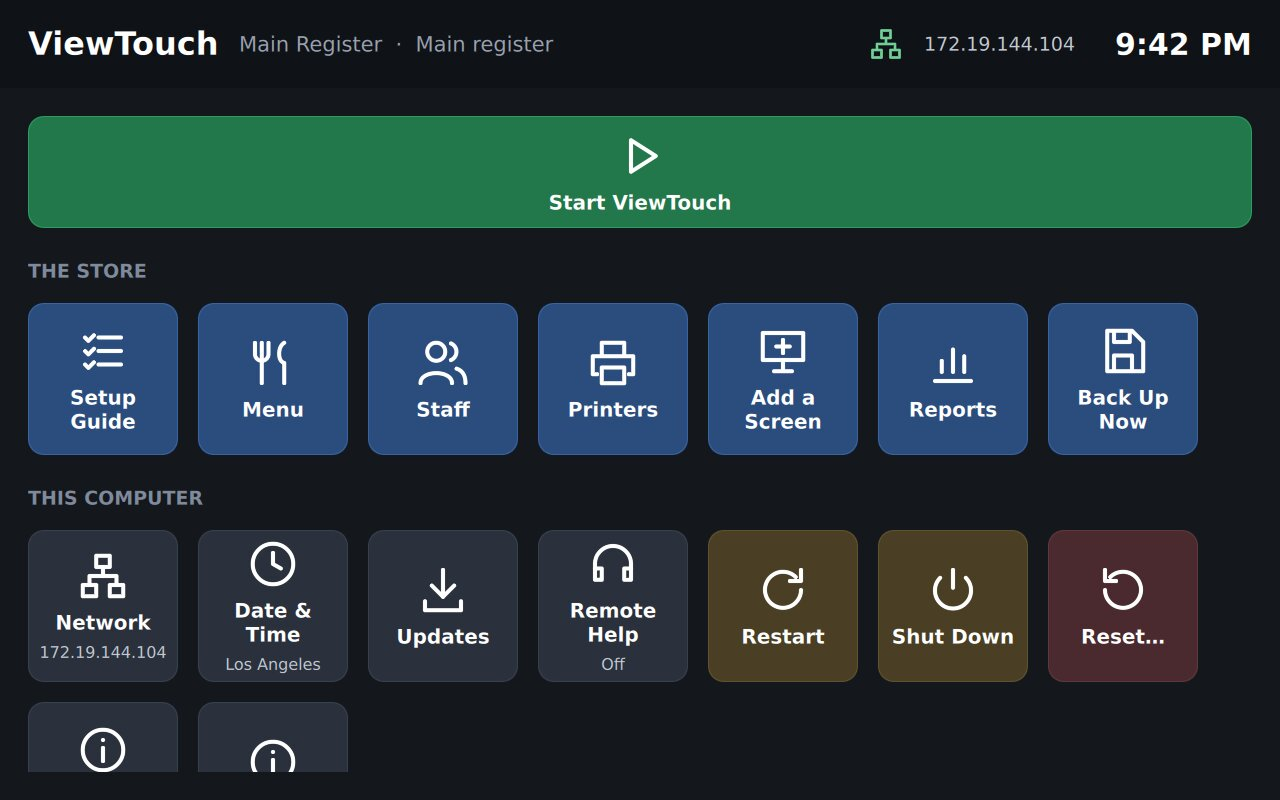
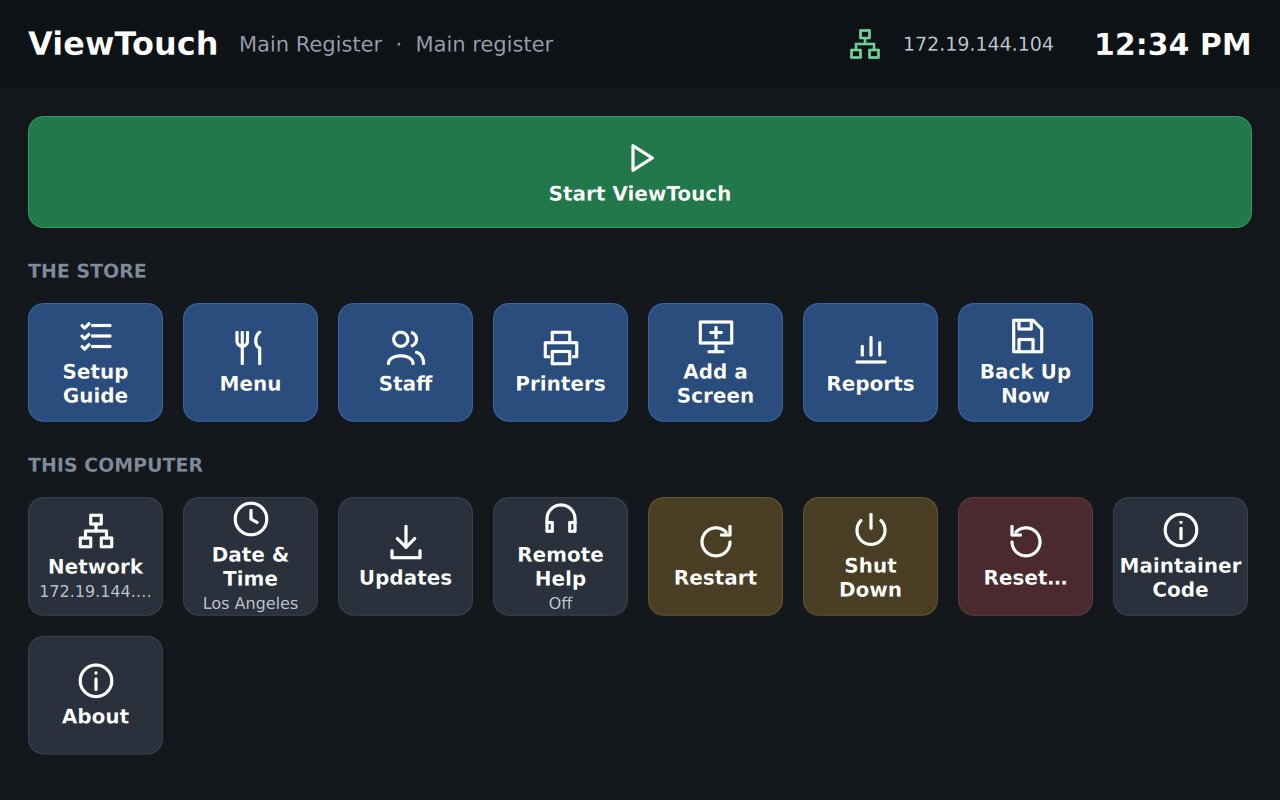
Manual: What's new since 0.11
Past tax that stays right, price tags, Order up to, the item list's
Stock column and Low Stock, stock and SKU from a spreadsheet, Undo for
stock settings, smoother busy nights and the home screen. Pictures of
the Stock column and Price Tags… (and the home screen and the Track
stock card again).

Claude-Session: https://claude.ai/code/session_015JJaarV4sfTKegR57HYFZ8

Changed region(s): [[0.0, 0.375, 1.0, 0.9688], [0.4062, 0.1562, 0.5938, 0.2812], [0.6562, 0.0312, 0.9375, 0.0938]]

diff --git a/modern/docs/manual/manual.html b/modern/docs/manual/manual.html
@@ -74,6 +74,14 @@
 </ul>
 
 <!-- ======================================================================= -->
+<h1>What's new since 0.11</h1>
+<ul>
+<li><b>Past tax stays right:</b> each check keeps the tax rates it closed with, so reports over past weeks and months, the dashboard and refunds show the tax that was charged even after the rates change (chapter 12).</li>
+<li><b>Retail:</b> <b>Price Tags…</b> with barcodes; Track stock has <b>Order up to</b> (on the Stock report's order list); the item list's <b>Stock</b> column and <b>Low Stock</b>; spreadsheets bring stock, cost and SKU in (<i>Update stock and cost</i>) and find renamed items by their barcode; Undo covers stock settings (chapter 11).</li>
+<li><b>Smoother when busy:</b> the kitchen screen only redraws what changed; marking an item sold out no longer refreshes every manager screen; the standby's copy is made without freezing the main register; starting up is quicker for a store with years of time punches.</li>
+<li><b>The home screen</b> fits a 1280 × 800 screen, every tile on it.</li>
+</ul>
+
 <h1>What's new in 0.11</h1>
 <ul>
 <li><b>Reports with room for the report:</b> every report in a list at the right, by kind; the days in one row that folds away while you read; swipe across a report for the next one; wide reports slide sideways. On a phone, the report fills the screen and its name opens the list (chapter 12).</li>
@@ -824,10 +832,10 @@
 <ul>
 <li><b>Categories</b> (left): <b>+ Category</b> adds one: its name, its color, which meals it's on (Breakfast, Lunch, Dinner, or All day), and what new items in it start with (which kitchen ticket, where it's made, its tax). Hold one and drag it to move it (or ▲ ▼); that's the order of the buttons on the order screens. <b>Edit Category</b> changes the one chosen.</li>
 <li><b>Items</b> (middle): the category's items as tiles. <b>+ Add Item</b>, or touch an item to change it. Hold an item and drag it to another place: the order screens follow.</li>
-<li><b>☰ List</b> (above the items): every item on the menu in one table instead: its name, category, price, tax and number or barcode. Touch a heading to sort by it (again for the other way). <b>All Items</b>, the category's name, <b>Sold Out</b> and <b>No Number or Barcode</b> narrow it. Touch a row to open its card. <b>▦ Tiles</b> goes back.</li>
+<li><b>☰ List</b> (above the items): every item on the menu in one table instead: its name, category, price, tax and number or barcode. Touch a heading to sort by it (again for the other way). <b>All Items</b>, the category's name, <b>Sold Out</b> and <b>No Number or Barcode</b> narrow it. Once any item tracks its stock, a <b>Stock</b> column shows how many are left (red when low) and <b>Low Stock</b> shows just those. Touch a row to open its card. <b>▦ Tiles</b> goes back.</li>
 <li><b>🔍 Find</b> (top left) finds an item anywhere on the menu by any part of its name, its number, its barcode, its category or its kitchen name. With the List showing, the table shows what's found.</li>
 <li><b>The item's card</b> (right): name, price, category, photo, sold out, on the kiosk or not, and <b>Track stock</b> (below). <b>What's on it</b>: type the ingredients it comes with, separated by commas (<i>lettuce, tomato, onion, mayo</i>); guests and staff can then have each No, Light, Extra or On the side. <b>Choices it asks for</b>: touch the choice groups it should ask for (Temperature, Side, Dressing…). <b>Add to the Menu</b> / <b>Save</b> are always at the bottom. <b>More…</b> opens every setting (kitchen name, prices by meal, takeout price, recipe…) in Manager → Menu, on that item.</li>
-<li><b>Select…</b>: touch items (tiles or rows of the List, in any category; <b>All</b> chooses every one shown), then change them together: <b>Move to…</b> another category, <b>Color…</b>, <b>Price…</b>, <b>Tax…</b>, <b>Sold Out</b>, <b>For Sale</b> or <b>Remove…</b>. <b>Price…</b> sets one price for all of them, or moves each one's own price by an amount (<i>0.50</i>, or <i>-0.25</i> to take off) or a percent (<i>5</i>, or <i>-10</i> for 10% less); it shows a few before and after first. Each is one step for <b>↶ Undo</b>.</li>
+<li><b>Select…</b>: touch items (tiles or rows of the List, in any category; <b>All</b> chooses every one shown), then change them together: <b>Move to…</b> another category, <b>Color…</b>, <b>Price…</b>, <b>Tax…</b>, <b>Price Tags…</b>, <b>Sold Out</b>, <b>For Sale</b> or <b>Remove…</b>. <b>Price…</b> sets one price for all of them, or moves each one's own price by an amount (<i>0.50</i>, or <i>-0.25</i> to take off) or a percent (<i>5</i>, or <i>-10</i> for 10% less); it shows a few before and after first. <b>Price Tags…</b> prints a tag for each, as many of each as you say: its name, price and barcode (or its number), on the label printer (Store Settings → Inventory), or on the receipt printer when there's no label printer. Each change is one step for <b>↶ Undo</b>.</li>
 <li><b>Add Several…</b> (beside the category's name): type or paste a list, one per line or separated by commas, each with its price: <i>Carne Asada 3.50</i>, <i>Al Pastor $3.25</i>, <i>Lengua 4,25</i>. A line starting with a category's name and a colon puts what follows there, and makes the category if it's new: <i>Drinks: Horchata 2.75, Agua Fresca 2.50</i>. It shows what it will add before you touch <b>Add</b>.</li>
 <li><b>Import…</b> (under the categories): a menu from a spreadsheet, or from the POS you're leaving. Put the file on a USB stick or this computer, then choose it. An Excel workbook (<i>.xlsx</i>) opens as it is; from Google Sheets, download it as Excel or CSV. A first row with column names is read by name: <i>Name</i> or <i>Item</i>, <i>Price</i>, <i>Category</i> or <i>Section</i>, <i>Description</i>, <i>Ingredients</i> (Spanish names work too); without one, the columns are name, price, category. Prices like <i>$3.50</i> or <i>3,50</i> are fine. A <i>Photo</i> (or <i>Foto</i>) column names a picture file for each item, like <i>fish-tacos.jpg</i>: put the pictures in the same folder as the spreadsheet (on the USB stick too). Rows whose picture isn't there come in without one, and the preview says which. It shows what it will add, and which rows it leaves out and why, before <b>Import</b>. Untick a row to leave it out; <b>Find</b> narrows the list (by name or category), and <b>Tick these</b> / <b>Untick these</b> do every row shown. Rows without a category go in the one chosen at the top, or in a new one if you type a name there. When some rows are left, the preview stays open for the next category, with the ones just imported gone from the list. New categories are made, items already on the menu are skipped, or get the file's price if you turn that on. A barcode another item already has is left off, and the message after says which.</li>
 <li><b>Coming from Square, Clover or Toast:</b> export the menu there and import the file here, as it is.
@@ -838,7 +846,7 @@
 </ul>
 A modifier group called <i>Size</i> (one required) becomes the item's sizes. Prices, choices and what's on each item are worth a look after: touch <b>Ready to go?</b> to see anything missing.</li>
 <li><b>Export → For Another ViewTouch</b>: the whole menu as one file (in <i>ViewTouch Exports</i>, or the folder set for exports): its categories, choice groups and items with every setting. At another store, <b>Import…</b> that file: what that store doesn't have by name is added, with its choices; nothing it has changes. Photos go along in the file; sales counts and stock recipes stay with each store.</li>
-<li><b>Export → As a Spreadsheet (.csv)</b>: every item, a row each: name, category, price, cost, tax, number, barcodes, on hand, low at and sold out. Open it in Excel or Google Sheets to look prices over or change them, then <b>Import…</b> it with <i>Update prices</i> on to bring the new prices in. A sheet with both a <i>Cost</i> and a <i>Price</i> column takes the price as the price.</li>
+<li><b>Export → As a Spreadsheet (.csv)</b>: every item, a row each: name, category, price, cost, tax, number, barcodes, on hand, low at and sold out. Open it in Excel or Google Sheets to look prices over or change them, then <b>Import…</b> it with <i>Update prices</i> on to bring the new prices in, and <i>Update stock and cost</i> for new counts, costs, low at and order up to. A sheet with both a <i>Cost</i> and a <i>Price</i> column takes the price as the price. Items are found again by their barcode, number or <i>SKU</i> before their name, so one renamed in the sheet is updated, not added twice. New items in a sheet with <i>On Hand</i> start tracking their stock.</li>
 <li><b>Print…</b> (beside Import… and Export): the menu with today's prices as a PDF, to print or hand out (in <i>ViewTouch Exports</i>). Type a title and a line under it (address, hours), choose 1 or 2 columns, Letter or A4, with or without pictures and descriptions, and which categories. The first page shows as it will print. Sizes print with their prices; sections from the Menu Builder print as small headings. Make a new one after prices change.</li>
 <li><b>Starter…</b>: a Taqueria, Café, Burgers &amp; Bar or Pizza menu: its categories, choice groups (salsas, sizes, milks, how it's cooked…) and items with typical prices and what's on them, added to your menu; nothing already on it changes. Then change the prices and names to yours.</li>
 <li><b>Duplicate</b> (on an item's card) makes a copy right after it, with its choices and what's on it, named <i>Fish Tacos 2</i>: change its name and price and save.</li>
@@ -855,8 +863,14 @@ A modifier group called <i>Size</i> (one required) becomes the item's sizes. Pri
 <td><img src="shots/m185-builder-price-several.jpg" width="270" height="169"><br><small>Select → Price…: 5% more on three burgers</small></td>
 </tr></table>
 <h3>Track stock</h3>
-<p class="shot"><img src="shots/m186-builder-track-stock.jpg" width="480" height="300"></p>
-<p>For something sold as it comes (a T-shirt, a bottle of wine, a bag of chips), turn on <b>Track stock</b> on its card and type how many there are (<b>On hand</b>), when to warn (<b>Low at</b>) and what one costs you (<b>Cost</b>; the card shows the margin it leaves). Each one sold counts it down, at the register or the kiosk, in a shop too (paid without being sent); a void puts it back. At <b>Low at</b> it says <i>Running low</i>, the order screen shows how many are left, and at none it's sold out by itself until there are more. It's in <b>Count Stock</b>, <b>Receive a Delivery</b> and the <b>Stock</b> and <b>Food Cost</b> reports like the kitchen's ingredients. Saving the card without touching <b>On hand</b> keeps what sold since the card was opened. Items made from ingredients keep their recipes in Manager → Menu (Inventory).</p>
+<table cellpadding="4"><tr>
+<td><img src="shots/m186-builder-track-stock.jpg" width="270" height="169"><br><small>Track stock on an item's card</small></td>
+<td><img src="shots/m189-builder-stock-column.jpg" width="270" height="169"><br><small>The list's Stock column</small></td>
+</tr><tr>
+<td><img src="shots/m188-price-tags.jpg" width="270" height="169"><br><small>Select → Price Tags…</small></td>
+<td></td>
+</tr></table>
+<p>For something sold as it comes (a T-shirt, a bottle of wine, a bag of chips), turn on <b>Track stock</b> on its card and type how many there are (<b>On hand</b>), when to warn (<b>Low at</b>), how many to have after an order (<b>Order up to</b>: the Stock report's order list asks for the difference) and what one costs you (<b>Cost</b>; the card shows the margin it leaves). Each one sold counts it down, at the register or the kiosk, in a shop too (paid without being sent); a void puts it back. At <b>Low at</b> it says <i>Running low</i>, the order screen shows how many are left, and at none it's sold out by itself until there are more. It's in <b>Count Stock</b>, <b>Receive a Delivery</b> and the <b>Stock</b> and <b>Food Cost</b> reports like the kitchen's ingredients. Saving the card without touching <b>On hand</b> keeps what sold since the card was opened. <b>↶ Undo</b> puts its stock settings back (not what's sold), and removing the item removes its stock with it. Items made from ingredients keep their recipes in Manager → Menu (Inventory).</p>
 <p><b>A store set up before the menu screens filled themselves</b> sees a note at the top of the Menu Builder: its meal pages have category buttons placed by hand, so new items don't show up on them. <b>Switch to Self-Filling</b> replaces those buttons with the self-filling categories, where they were, and keeps everything else on the page; it opens the page editor to look them over, then <b>Save</b> (or <b>Undo</b>). Pages built by hand stay as pages of their own.</p>
 <p><b>★ Favorite</b> on an item's card puts it in the order screen's <b>★ Favorites</b>, the first tab, together with today's best sellers (12 in all). The item buttons size themselves: as many columns as fit the category's items without scrolling, as big as they can be.</p>
 <p>On the order screen, each meal's page shows its categories as buttons (<b>Breakfast</b>, <b>Lunch</b>, <b>Dinner</b> at the top); touching one shows its items, with a button for every category across the top. <b>Everything</b> shows the whole menu, <b>Popular</b> today's best sellers.</p>
@@ -1150,7 +1164,7 @@ A modifier group called <i>Size</i> (one required) becomes the item's sizes. Pri
 <p class="shot"><img src="shots/m135-forecast.jpg" width="560" height="315"></p>
 <p class="caption">Forecast: Wednesday from the last four Wednesdays.</p>
 <h2>Periods and last year</h2>
-<p><b>Day</b> shows one business day (◀ ▶ for earlier days). <b>This Week</b>, <b>Last Week</b>, <b>This Month</b>, <b>Last Month</b>, <b>This Year</b>, <b>Last Year</b> and <b>Dates…</b> cover a range (slide the row to see them all). <b>vs Last Year</b> adds the same days a year before and the change. Some reports are one day at a time (Tips, Labor, Drawer, Deposit, Expenses, Purchases, Stock, Gift Cards, Drivers, Checklists, Changes): for them the ranges are dimmed, and picking one goes back to Day.</p>
+<p><b>Day</b> shows one business day (◀ ▶ for earlier days). <b>This Week</b>, <b>Last Week</b>, <b>This Month</b>, <b>Last Month</b>, <b>This Year</b>, <b>Last Year</b> and <b>Dates…</b> cover a range (slide the row to see them all). <b>vs Last Year</b> adds the same days a year before and the change. A check keeps the tax rates it was closed with, so after a change of tax rates past weeks and months still show the tax they were charged. Some reports are one day at a time (Tips, Labor, Drawer, Deposit, Expenses, Purchases, Stock, Gift Cards, Drivers, Checklists, Changes): for them the ranges are dimmed, and picking one goes back to Day.</p>
 <p class="shot"><img src="shots/m181-reports-month.jpg" width="560" height="315"></p>
 <p class="caption">Items last month against the same month a year before.</p>
 <table cellpadding="4"><tr>

diff --git a/modern/tests/test_pos_flow.cpp b/modern/tests/test_pos_flow.cpp
@@ -5363,6 +5363,20 @@ TEST_CASE("Manual: reports, the item list, stock and barcodes", "[.manual]")
         card->setProperty("contentY", std::clamp(y - 140, 0.0, std::max(0.0, card->property("contentHeight").toDouble() - card->height())));
         clean(s);
         s.shot("m186-builder-track-stock");
+        // The list with its Stock column, and price tags for two items.
+        search->setProperty("text", QString());
+        QMetaObject::invokeMethod(search, "textEdited");
+        QTest::qWait(100);
+        s.tapItem(by(s, u"builderSelect"_s));   // Select: the card closes, the list is wide again
+        s.tapItem(by(s, u"builderListSort-stock"_s));   // the tracked ones first
+        clean(s);
+        s.shot("m189-builder-stock-column");
+        for (const char *id : {"classic-burger", "cheeseburger"})
+            if (QQuickItem *row = by(s, u"builderListRow-"_s + QString::fromLatin1(id)))
+                s.tapItem(row);
+        s.tapItem(by(s, u"builderSelectTags"_s));
+        clean(s);
+        s.shot("m188-price-tags");
     }
     {
         Screen s(false, 1280, 800);
